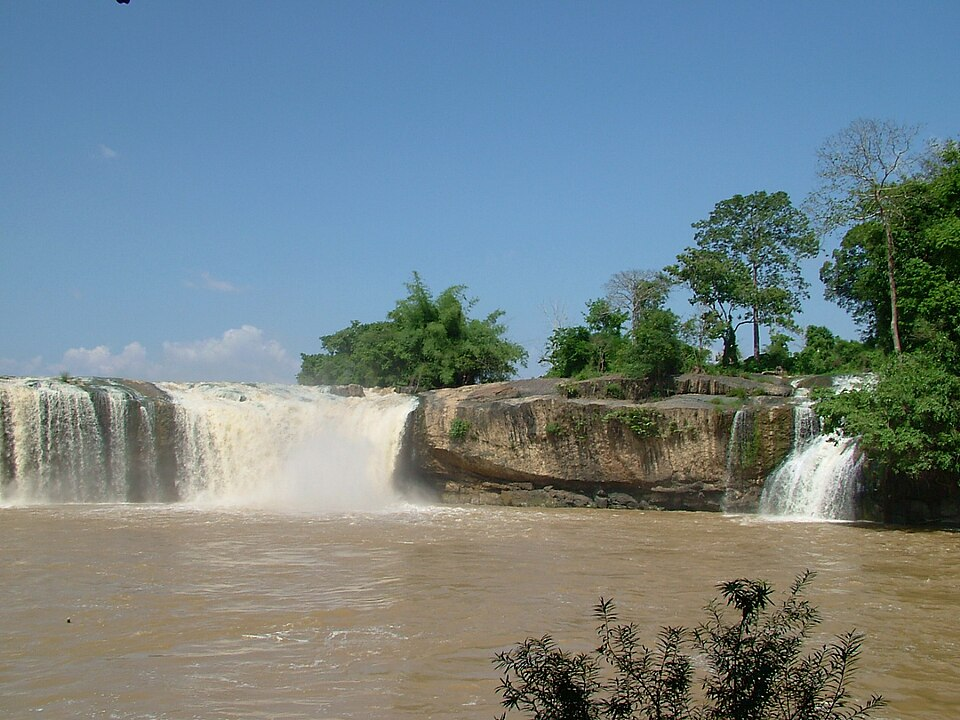
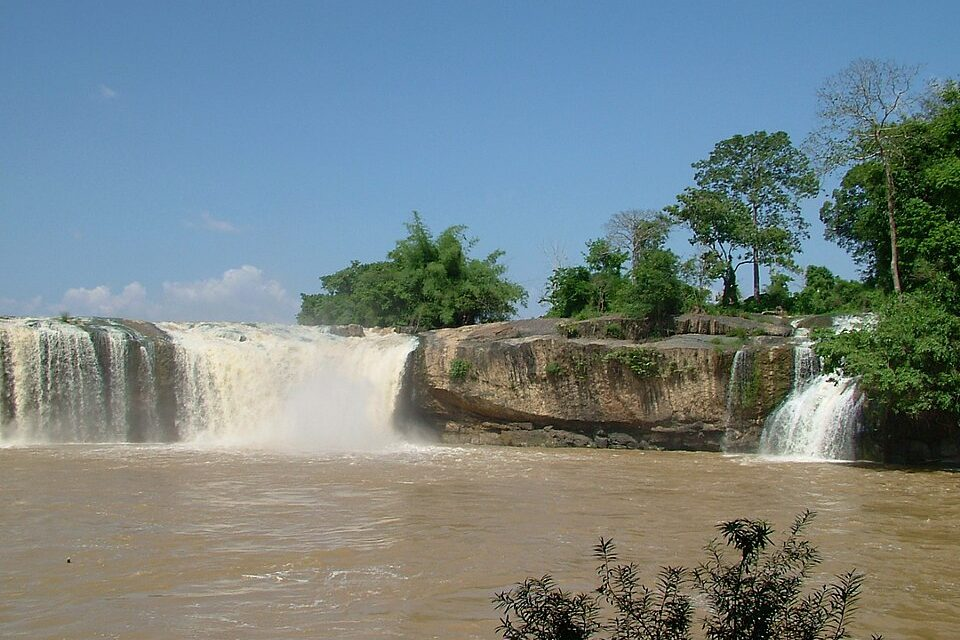
content: write the Dray Sap waterfall page
Add the kicker, the sourced notice, a second viewpoint, and getting there from Gia Nghia. The gate price stays Check on arrival.

diff --git a/research/dak-nong/attractions/dray-sap.md b/research/dak-nong/attractions/dray-sap.md
@@ -1,0 +1,100 @@
+# Attraction research — Dray Sap Waterfall
+
+Place: `dak-nong`
+Slug: `dray-sap`
+Status: stored
+Checked: 23 Oct 2026
+
+## What it is
+
+- English name: Dray Sap Waterfall
+- Vietnamese name: Thác Đray Sáp
+- Kicker (one line, what it is): Wide cascade on the Serepok
+- Kind: sight
+
+## What the visitor does
+
+- The scene, in order: Viewpoints over a wide sheet on the Serepok, in primary forest. UNESCO describes about 100 metres across and about 12 metres down (S5). The provincial handbook names Gia Long and Trinh Nu in the same cluster and puts the eco-site in Dak Sor, Krong No (S1).
+- How long on site: Check on arrival — UNSOURCED. The city dossier suggested two to three hours and marked that figure unsourced.
+- How long including the ride from the base: About 110 km from Gia Nghia (S1). Minutes Check on arrival — UNSOURCED.
+- Mistake that wastes the visit: Treating it as a short hop after a Ta Dung morning (S1).
+- Notice, if one fact would waste the day: The handbook distance is about 110 km from Gia Nghia, so the falls are their own day.
+
+## Fee
+
+- Basic price, and who pays it: Check on arrival — UNSOURCED on an official gate page (S1, S5).
+- Child, height, or senior rule: Check on arrival — UNSOURCED.
+- What the basic ticket includes: Check on arrival — UNSOURCED.
+- What costs extra: Check on arrival — UNSOURCED.
+- Source, or UNSOURCED: UNSOURCED. Historical review prices of 30,000–40,000 VND were not confirmed and are not printed.
+
+## Hours
+
+- Open: Foody lists 07:30–18:00 for the cluster (S16). The provincial handbook and the UNESCO page do not print a gate hour. Check on arrival.
+- Last entry, if it differs: Check on arrival — UNSOURCED.
+- Closed, weekly or seasonal: The handbook does not print a weekly closing day. Check the gate board on arrival.
+- If a board was an image and could not be read, say so: No gate board was read. S16 is a venue listing, not a ticket office.
+- Source, or UNSOURCED: S16 for the 07:30–18:00 listing. Official hour UNSOURCED.
+
+## Getting there
+
+### From Gia Nghia
+
+- Mode: Car or motorbike
+- Time: Check on arrival — UNSOURCED
+- Fare, if any: Check on arrival — UNSOURCED
+- Source, or UNSOURCED: About 110 km (S1)
+
+### From Buon Ma Thuot
+
+- Mode: Fly into Buon Ma Thuot, then the road toward Krong No. The dossier says the falls are often paired with that approach (S1, S3).
+- Time: Check on arrival — UNSOURCED. Do not reuse the Gia Nghia distance as the gate distance.
+- Fare, if any: Check on arrival — UNSOURCED
+- Source, or UNSOURCED: No kilometre count from the airport to the gate.
+
+- Coordinates, only if a source prints them: None. Leave `lat` and `lng` unset.
+
+## Season
+
+- Sight-specific months, or leave to the place: UNESCO notes May–October as the wet season, when waterfalls run fuller (S5).
+- One concrete climate fact, if a source gives it: Fuller water in that wet season (S5).
+
+## Photos
+
+- Hero must show: the full width of the falls and forest
+- Second frame must show (a different moment): another viewpoint of the same wide sheet, framed by trees
+- Reject: Dray Nur (Dak Lak), a generic reservoir, Dray Sap Thuong’s basalt gorge if it is not this sheet
+
+Kept: File:Draysap02.JPG (Dotuanhungdaklak, CC BY-SA 3.0) as the hero, cropped so the sheet sits in the frame. File:Draysap01.JPG by the same author as the second frame. Both are in the Commons category Dray Sap Waterfalls.
+
+## Links
+
+- Official page: UNESCO Dak Nong UNESCO Global Geopark, https://www.unesco.org/en/iggp/dak-nong-unesco-global-geopark
+- Price or hours page: No official ticket page. Handbook: https://daknong.gov.vn/du-khach/cam-nang-du-lich-dak-nong-2024-tu-a-z-485507. Foody is secondary only.
+
+## Open questions
+
+- Official gate price, child rule, and what the ticket includes.
+- Official opening hour and any weekly close.
+- Minutes from Gia Nghia and from Buon Ma Thuot airport.
+- A sourced coordinate for the gate.
+
+## Sources
+
+### S1
+- URL: https://daknong.gov.vn/du-khach/cam-nang-du-lich-dak-nong-2024-tu-a-z-485507
+- Publisher: Dak Nong provincial portal (visitor handbook, 26 Apr 2024)
+- Accessed: 21 Oct 2026
+- Supports: About 110 km from Gia Nghia, Dak Sor, Krong No, Gia Long and Trinh Nu in the cluster
+
+### S5
+- URL: https://www.unesco.org/en/iggp/dak-nong-unesco-global-geopark
+- Publisher: UNESCO
+- Accessed: 21 Oct 2026
+- Supports: About 100 metres wide, about 12 metres down, primary forest, wet season May–October
+
+### S16
+- URL: https://www.foody.vn/dak-nong/khu-du-lich-thac-dray-sap-gia-long-trinh-nu
+- Publisher: Foody
+- Accessed: 21 Oct 2026
+- Supports: Secondary only — 07:30–18:00. Not an official ticket page.
